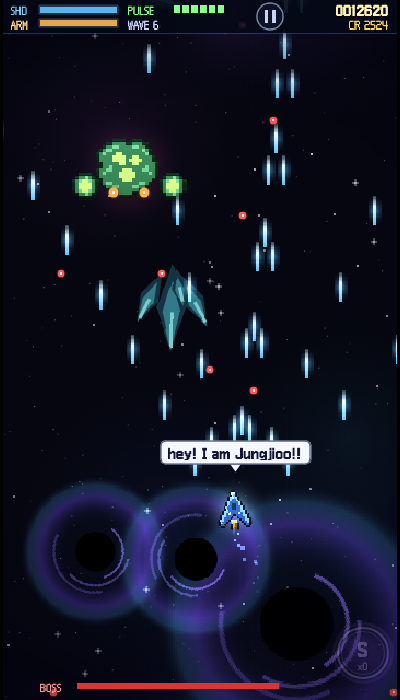
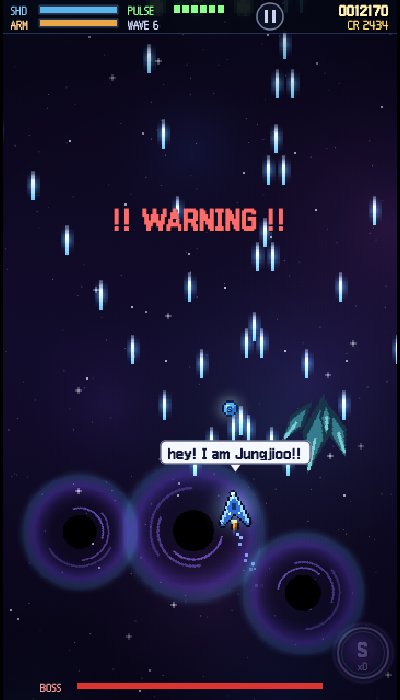
피드백 반영: 박설희 표기·다중 라켓 스윙·배경 차별화·적 진형 다양화
- 박슬희 → 박설희 표기 수정 (영문 대사 "Hey I am Parksulhee!"는 정본 유지)
- 필살기 재작업: 배드민턴 채 6연속 스윙 — 좌/우/상/하 사방에서 시차를 두고
  슁슁슁 (스윙별 궤적 일망타진, 보스는 스윙당 타격 최대 3회, 스우시 SFX·진동)
- 배경 균일함 해소: 스테이지별 전용 그라디언트 언더레이 8종(색 정체성) +
  테마별 별 색조(웜/바이올렛/그린)
- 적 반복 완화: V자 편대 진형 신설 + 전 레벨 웨이브에 V편대·타 레벨 잔존 세력
  혼합 배치 (마이트 스웜, 파편·홍염 재출현 등)

diff --git a/src/scenes/GameScene.ts b/src/scenes/GameScene.ts
@@ -158,23 +158,33 @@ interface SuperState {
   acc: number;
   spidSaid: boolean;
 }
-/** 박슬희 필살기 — 거대 배드민턴 채 풀스윙 */
+/** 박설희 필살기 — 거대 배드민턴 채 다중 스윙 (상하좌우 슁슁슁) */
+interface RacketSwing {
+  img: Phaser.GameObjects.Image;
+  dir: 'L' | 'R' | 'T' | 'B';
+  t0: number;
+  lane: number;
+  bossCounted: boolean;
+}
 interface RacketState {
   t: number;
-  img: Phaser.GameObjects.Image;
-  bossHit: boolean;
-  swooshed: boolean;
+  swings: RacketSwing[];
+  spawned: number;
+  bossSwings: number;
 }
 // 대사 표기는 정본 — 변경 금지
 const PS_BUBBLE = 'Hey I am Parksulhee!';
 const PS = {
   bubbleUntil: 1.0,
-  sweepFrom: 1.0,
-  sweepTo: 2.6,
-  endAt: 3.0,
-  bossDamage: 110,
-  partDamage: 90,
+  swingEvery: 0.34,
+  swingDur: 0.6,
+  swingCount: 6,
+  endAt: 3.6,
+  bossDamagePerSwing: 40,
+  partDamagePerSwing: 34,
+  maxBossSwings: 3,
 } as const;
+const PS_DIRS: RacketSwing['dir'][] = ['L', 'R', 'T', 'B', 'L', 'R'];
 
 const DEPTH = {
   bg: 0,
@@ -1366,14 +1376,8 @@ export class GameScene extends Phaser.Scene {
       return;
     this.session.superN--;
     if (this.session.pilot === 'parksulhee') {
-      // 박슬희: 거대 배드민턴 채 일망타진
-      const img = this.add
-        .image(-140, GAME_HEIGHT * 0.46, 'racket')
-        .setDepth(DEPTH.phantom)
-        .setScale(2.1)
-        .setRotation(-0.5)
-        .setVisible(false);
-      this.ps = { t: 0, img, bossHit: false, swooshed: false };
+      // 박설희: 거대 배드민턴 채가 사방에서 연속 스윙
+      this.ps = { t: 0, swings: [], spawned: 0, bossSwings: 0 };
       this.inv = 999;
       this.auraImg.setVisible(true);
       vibrate(80);
@@ -1530,40 +1534,87 @@ export class GameScene extends Phaser.Scene {
     ps.t += dt;
     if (ps.t < PS.bubbleUntil) {
       this.showBubble(PS_BUBBLE, this.px, this.py - 34);
-    } else if (ps.t < PS.sweepTo) {
-      this.bubble.setVisible(false);
-      if (!ps.swooshed) {
-        ps.swooshed = true;
-        ps.img.setVisible(true);
-        SFX.spid();
+      return;
+    }
+    this.bubble.setVisible(false);
+    // 스윙 생성: 상하좌우에서 시차를 두고
+    while (ps.spawned < PS.swingCount && ps.t >= PS.bubbleUntil + ps.spawned * PS.swingEvery) {
+      const dir = PS_DIRS[ps.spawned % PS_DIRS.length] ?? 'L';
+      const lane =
+        dir === 'L' || dir === 'R' ? rnd(140, GAME_HEIGHT - 180) : rnd(70, GAME_WIDTH - 70);
+      const img = this.add
+        .image(0, 0, 'racket')
+        .setDepth(DEPTH.phantom)
+        .setScale(1.8)
+        .setVisible(true);
+      if (dir === 'T') img.setRotation(Math.PI);
+      ps.swings.push({ img, dir, t0: ps.t, lane, bossCounted: false });
+      ps.spawned++;
+      SFX.swoosh();
+      vibrate(30);
+    }
+    // 스윙 진행: 사방에서 슁슁슁 — 지나간 궤적의 적 일망타진
+    for (let i = ps.swings.length - 1; i >= 0; i--) {
+      const sw = ps.swings[i];
+      if (!sw) continue;
+      const p = (ps.t - sw.t0) / PS.swingDur;
+      if (p >= 1) {
+        sw.img.destroy();
+        ps.swings.splice(i, 1);
+        continue;
       }
-      // 풀스윙: 왼쪽 → 오른쪽, 지나간 자리의 적 일망타진
-      const p = (ps.t - PS.sweepFrom) / (PS.sweepTo - PS.sweepFrom);
-      const x = -140 + (GAME_WIDTH + 300) * p;
-      ps.img.setPosition(x, GAME_HEIGHT * 0.46 + Math.sin(p * Math.PI) * -40);
-      ps.img.setRotation(-0.5 + p * 0.85);
-      const front = x + 80;
-      for (const e of this.enemies) {
-        if (!e.dead && e.x < front) this.killEnemy(e);
+      const wob = Math.sin(p * Math.PI) * 0.35;
+      let fx = 0;
+      let fy = 0;
+      if (sw.dir === 'L') {
+        sw.img.setPosition(-140 + (GAME_WIDTH + 300) * p, sw.lane);
+        sw.img.setRotation(-0.5 + p * 0.9 + wob * 0.2);
+        fx = sw.img.x + 70;
+        for (const e of this.enemies) if (!e.dead && e.x < fx) this.killEnemy(e);
+      } else if (sw.dir === 'R') {
+        sw.img.setPosition(GAME_WIDTH + 140 - (GAME_WIDTH + 300) * p, sw.lane);
+        sw.img.setRotation(0.5 - p * 0.9 - wob * 0.2);
+        fx = sw.img.x - 70;
+        for (const e of this.enemies) if (!e.dead && e.x > fx) this.killEnemy(e);
+      } else if (sw.dir === 'T') {
+        sw.img.setPosition(sw.lane, -160 + (GAME_HEIGHT + 340) * p);
+        sw.img.setRotation(Math.PI + (-0.4 + p * 0.8));
+        fy = sw.img.y + 80;
+        for (const e of this.enemies) if (!e.dead && e.y < fy) this.killEnemy(e);
+      } else {
+        sw.img.setPosition(sw.lane, GAME_HEIGHT + 160 - (GAME_HEIGHT + 340) * p);
+        sw.img.setRotation(0.4 - p * 0.8);
+        fy = sw.img.y - 80;
+        for (const e of this.enemies) if (!e.dead && e.y > fy) this.killEnemy(e);
       }
-      this.reapEnemies();
-      for (const b of this.ebullets) this.pool.release(b.img);
-      this.ebullets.length = 0;
+      // 보스 타격: 스윙당 1회, 최대 3회
       const B = this.boss;
-      if (B && !ps.bossHit && B.x < front) {
-        ps.bossHit = true;
-        vibrate(90);
-        this.shake = 7;
-        const shieldParts = B.parts.filter((pp) => pp.alive && pp.def.shield);
-        if (shieldParts.length > 0) {
-          for (const part of shieldParts) this.damagePart(part, B, PS.partDamage);
-        } else {
-          B.flashT = 0.08;
-          this.damageBoss(PS.bossDamage);
+      if (B && !sw.bossCounted && ps.bossSwings < PS.maxBossSwings) {
+        const crossed =
+          (sw.dir === 'L' && B.x < fx) ||
+          (sw.dir === 'R' && B.x > fx) ||
+          (sw.dir === 'T' && B.y < fy) ||
+          (sw.dir === 'B' && B.y > fy);
+        if (crossed) {
+          sw.bossCounted = true;
+          ps.bossSwings++;
+          vibrate(70);
+          this.shake = Math.min(7, this.shake + 4);
+          const shieldParts = B.parts.filter((pp) => pp.alive && pp.def.shield);
+          if (shieldParts.length > 0) {
+            for (const part of shieldParts) this.damagePart(part, B, PS.partDamagePerSwing);
+          } else {
+            B.flashT = 0.08;
+            this.damageBoss(PS.bossDamagePerSwing);
+          }
         }
       }
-    } else if (ps.t >= PS.endAt) {
-      ps.img.destroy();
+    }
+    this.reapEnemies();
+    for (const b of this.ebullets) this.pool.release(b.img);
+    this.ebullets.length = 0;
+
+    if (ps.t >= PS.endAt && ps.swings.length === 0) {
       this.ps = null;
       this.inv = SUPER.endInvuln;
       this.auraImg.setVisible(false);

diff --git a/src/systems/textures.ts b/src/systems/textures.ts
@@ -1430,6 +1430,28 @@ export function generateTextures(scene: Phaser.Scene): void {
     addCanvasTexture(scene, 'decor-swirl', c);
   }
 
+  // 테마별 배경 그라디언트 언더레이 — 스테이지 색 정체성 (피드백: 배경 균일함)
+  const grads: Record<string, [string, string, string]> = {
+    nebula: ['#0a0618', '#120c2c', '#0a0618'],
+    protostar: ['#160a06', '#2c1408', '#120806'],
+    mainseq: ['#12100a', '#2a220c', '#141008'],
+    asteroids: ['#0a0a0e', '#181820', '#0a0a0e'],
+    redgiant: ['#1a0606', '#340c08', '#160404'],
+    supernova: ['#140820', '#301238', '#180a24'],
+    blackhole: ['#040408', '#0c0818', '#020204'],
+    inside: ['#160a24', '#0a241c', '#1e0a1e'],
+  };
+  for (const [theme, cols] of Object.entries(grads)) {
+    const [c, ctx] = canvas(GAME_WIDTH, GAME_HEIGHT);
+    const g = ctx.createLinearGradient(0, 0, 0, GAME_HEIGHT);
+    g.addColorStop(0, cols[0]);
+    g.addColorStop(0.5, cols[1]);
+    g.addColorStop(1, cols[2]);
+    ctx.fillStyle = g;
+    ctx.fillRect(0, 0, GAME_WIDTH, GAME_HEIGHT);
+    addCanvasTexture(scene, `bg-grad-${theme}`, c);
+  }
+
   /* ---------- 대형 지형 구조물 (티리안식 흘러가는 지물) ---------- */
   const snap2 = (v: number) => Math.round(v / 2) * 2;
   const bigRock = (key: string, base: string, mid: string, hi: string, crack?: string) => {

diff --git a/src/systems/background.ts b/src/systems/background.ts
@@ -60,6 +60,21 @@ export class SpaceBackground {
       this.decors.push({ img, rot: opts.rot ?? 0, pulse: opts.pulse ?? 0 });
     };
 
+    // 테마 색 정체성: 그라디언트 언더레이 + 별 색조
+    const underlay = scene.add
+      .image(0, 0, `bg-grad-${config.theme}`)
+      .setOrigin(0, 0)
+      .setDepth(baseDepth - 0.05);
+    this.decors.push({ img: underlay, rot: 0, pulse: 0 });
+    const starTint: Record<string, number> = {
+      protostar: 0xffd8b0,
+      mainseq: 0xfff0c0,
+      redgiant: 0xffb8a0,
+      supernova: 0xf0d8ff,
+      inside: 0xc8ffd8,
+    };
+    const tint = starTint[config.theme];
+
     const a = config.nebulaAlpha;
     switch (config.theme) {
       case 'protostar':
@@ -117,6 +132,14 @@ export class SpaceBackground {
         add('bg-nebula', baseDepth, 0.12, a, true);
         add('bg-stars-far', baseDepth + 0.1, 0.35);
         add('bg-stars-near', baseDepth + 0.2, 0.85);
+    }
+    this.applyStarTint(tint);
+  }
+
+  private applyStarTint(tint: number | undefined): void {
+    if (!tint) return;
+    for (const l of this.layers) {
+      if (l.sprite.texture.key.startsWith('bg-stars')) l.sprite.setTint(tint);
     }
   }
 

diff --git a/src/game/logic/waves.ts b/src/game/logic/waves.ts
@@ -52,8 +52,21 @@ function emitGroup(q: SpawnEvent[], g: WaveGroup, t0: number, rng: () => number)
         x: g.xMargin + (span * (i + 0.5)) / g.count,
         opt: {},
       });
-  } else {
+  } else if (g.kind === 'single') {
     q.push({ t: t0, kind: 'enemy', type: g.enemy, x: g.x, opt: {} });
+  } else {
+    // V자 편대: 중앙 선두, 좌우 후열이 시차를 두고 직선 강하
+    const cx = rnd(rng, g.xMin, g.xMax);
+    for (let i = 0; i < g.count; i++) {
+      const k = i - (g.count - 1) / 2;
+      q.push({
+        t: t0 + Math.abs(k) * g.interval,
+        kind: 'enemy',
+        type: g.enemy,
+        x: cx + k * g.spacing,
+        opt: { amp: 0 },
+      });
+    }
   }
   return t0 + g.duration;
 }

diff --git a/src/data/schemas.ts b/src/data/schemas.ts
@@ -337,6 +337,16 @@ const waveGroupSchema = z.discriminatedUnion('kind', [
     x: z.number(),
     duration: z.number(),
   }),
+  z.object({
+    kind: z.literal('vee'),
+    enemy: z.string(),
+    count: z.number().int().min(3),
+    spacing: z.number(),
+    interval: z.number(),
+    xMin: z.number(),
+    xMax: z.number(),
+    duration: z.number(),
+  }),
 ]);
 
 export const levelsSchema = z.object({

diff --git a/src/systems/Sfx.ts b/src/systems/Sfx.ts
@@ -150,6 +150,9 @@ export const SFX = {
     tone('sawtooth', 60, 240, 0.8, 0.12);
     noiseBurst(0.8, 0.1, 400, 3200);
   },
+  swoosh: () => {
+    noiseBurst(0.22, 0.16, 4200, 500);
+  },
   spid: () => {
     noiseBurst(0.5, 0.22, 3600, 500);
     tone('square', 1200, 300, 0.4, 0.08);
